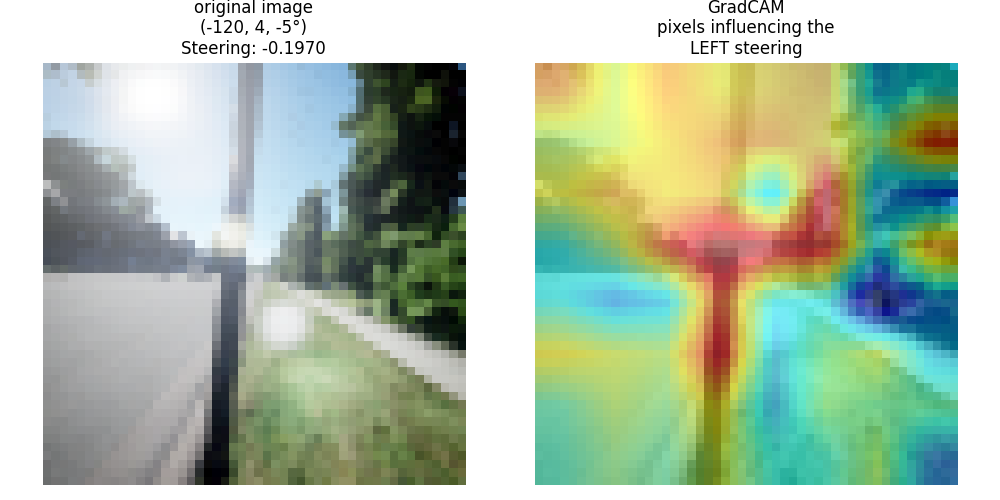
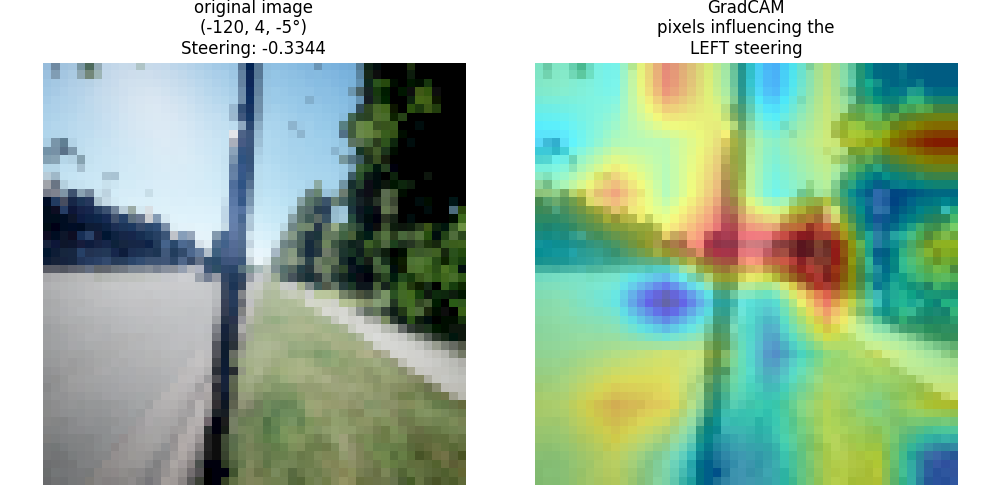
gradCAM_working_Beta

diff --git a/scripts/airsim_env.py b/scripts/airsim_env.py
@@ -67,7 +67,7 @@ class AirSimCarEnv(gym.Env):
         reward, done = self.compute_reward()
         self.episode_reward += reward
         self.temp_reward = self.episode_reward
-        print(reward)
+        # print(reward)
         # if the episode ended, print the cumulative reward
         if done:
             if not hasattr(self, 'test_mode') or self.test_mode != "inference":
@@ -254,7 +254,7 @@ class TestEnv(AirSimCarEnv):
         reward, done = self.compute_reward()
         self.episode_reward += reward
         self.temp_reward = self.episode_reward
-        print(reward)
+        # print(reward)
         
         # Stampa statistiche DOPO aver aggiornato episode_reward
         if done and self.test_mode != "inference":

diff --git a/inference.py b/inference.py
@@ -3,6 +3,7 @@ import os
 import gym
 import yaml
 import time
+import torch as th
 
 from stable_baselines3 import PPO
 from stable_baselines3.common.monitor import Monitor
@@ -39,7 +40,11 @@ env = DummyVecEnv([lambda: Monitor(
 # wrap env as VecTransposeImage (Channel last to channel first)
 env = VecTransposeImage(env)
 
-policy_kwargs = dict(features_extractor_class=NatureCNN)
+policy_kwargs = dict(
+    features_extractor_class=NatureCNN,
+    net_arch=[dict(pi=[64, 64], vf=[64, 64])],
+    activation_fn=th.nn.Tanh,
+)
 
 # load an existing model
 model = PPO.load(

diff --git a/train_Beta.py b/train_Beta.py
@@ -90,10 +90,10 @@ callbacks = []
 eval_callback = EvalCallback(
     eval_env,
     callback_on_new_best=None,
-    n_eval_episodes=4,
+    n_eval_episodes=3,
     best_model_save_path="saved_policy",
     log_path=".",
-    eval_freq=256,
+    eval_freq=1024,
     deterministic=True,  # test it
 )
 
@@ -104,7 +104,7 @@ kwargs["callback"] = callbacks
 log_name = "ppo_run_" + str(time.time())
 
 model.learn(
-    total_timesteps=35000,
+    total_timesteps=15000,
     tb_log_name=log_name,
     **kwargs
 )

diff --git a/grad_cam.py b/grad_cam.py
@@ -231,9 +231,9 @@ def analyze_multiple_positions():
 
     positions = [
         # List of positions to analyze: (x, y, yaw)
-        (0, 0, 0),
-        (20, 0, 0),
-        (-120,0,0),
+        (-121, 4, -4),
+        (-120,4,-7),
+        (-120,4,-8),
     ]
 
     results = []

diff --git a/train.py b/train.py
@@ -93,7 +93,7 @@ eval_callback = EvalCallback(
     n_eval_episodes=3,
     best_model_save_path="saved_policy",
     log_path=".",
-    eval_freq=125,
+    eval_freq=256,
 )
 
 callbacks.append(eval_callback)
